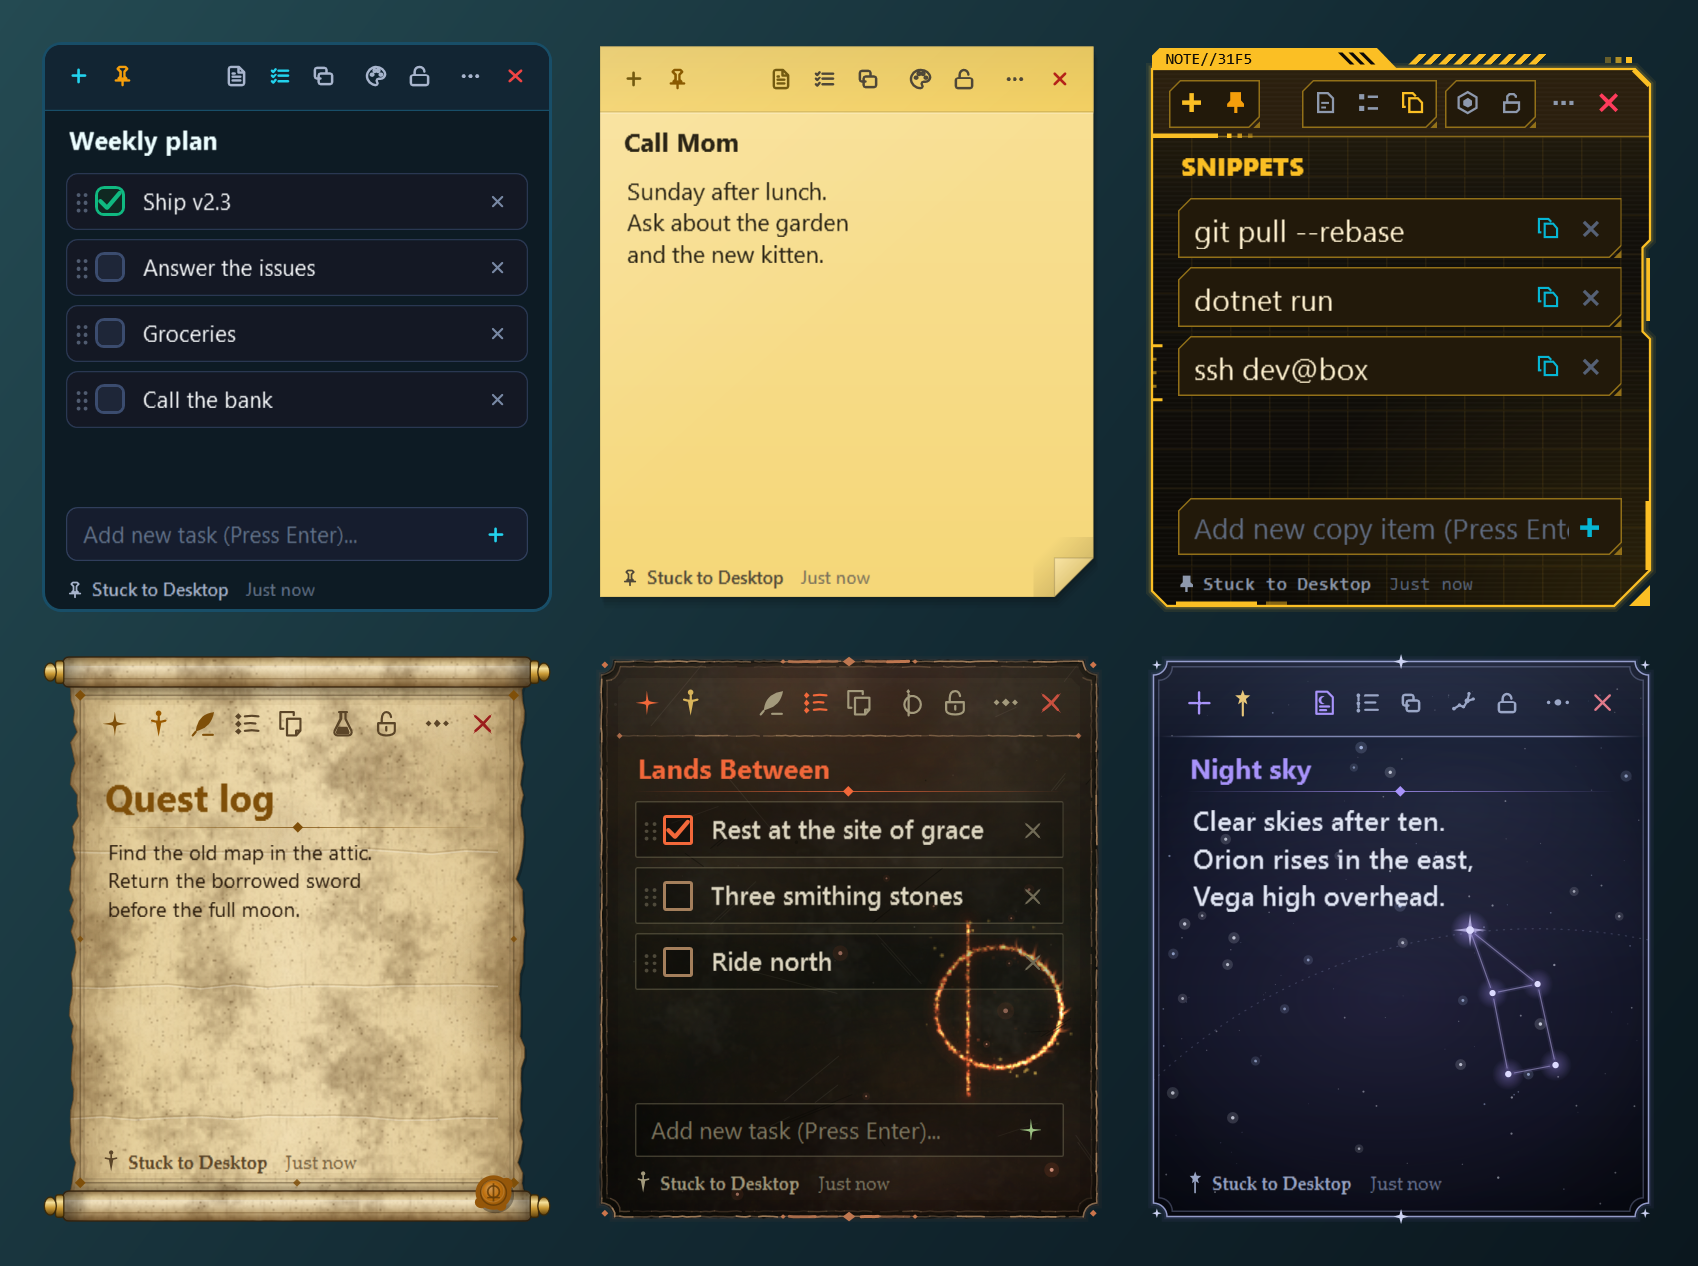
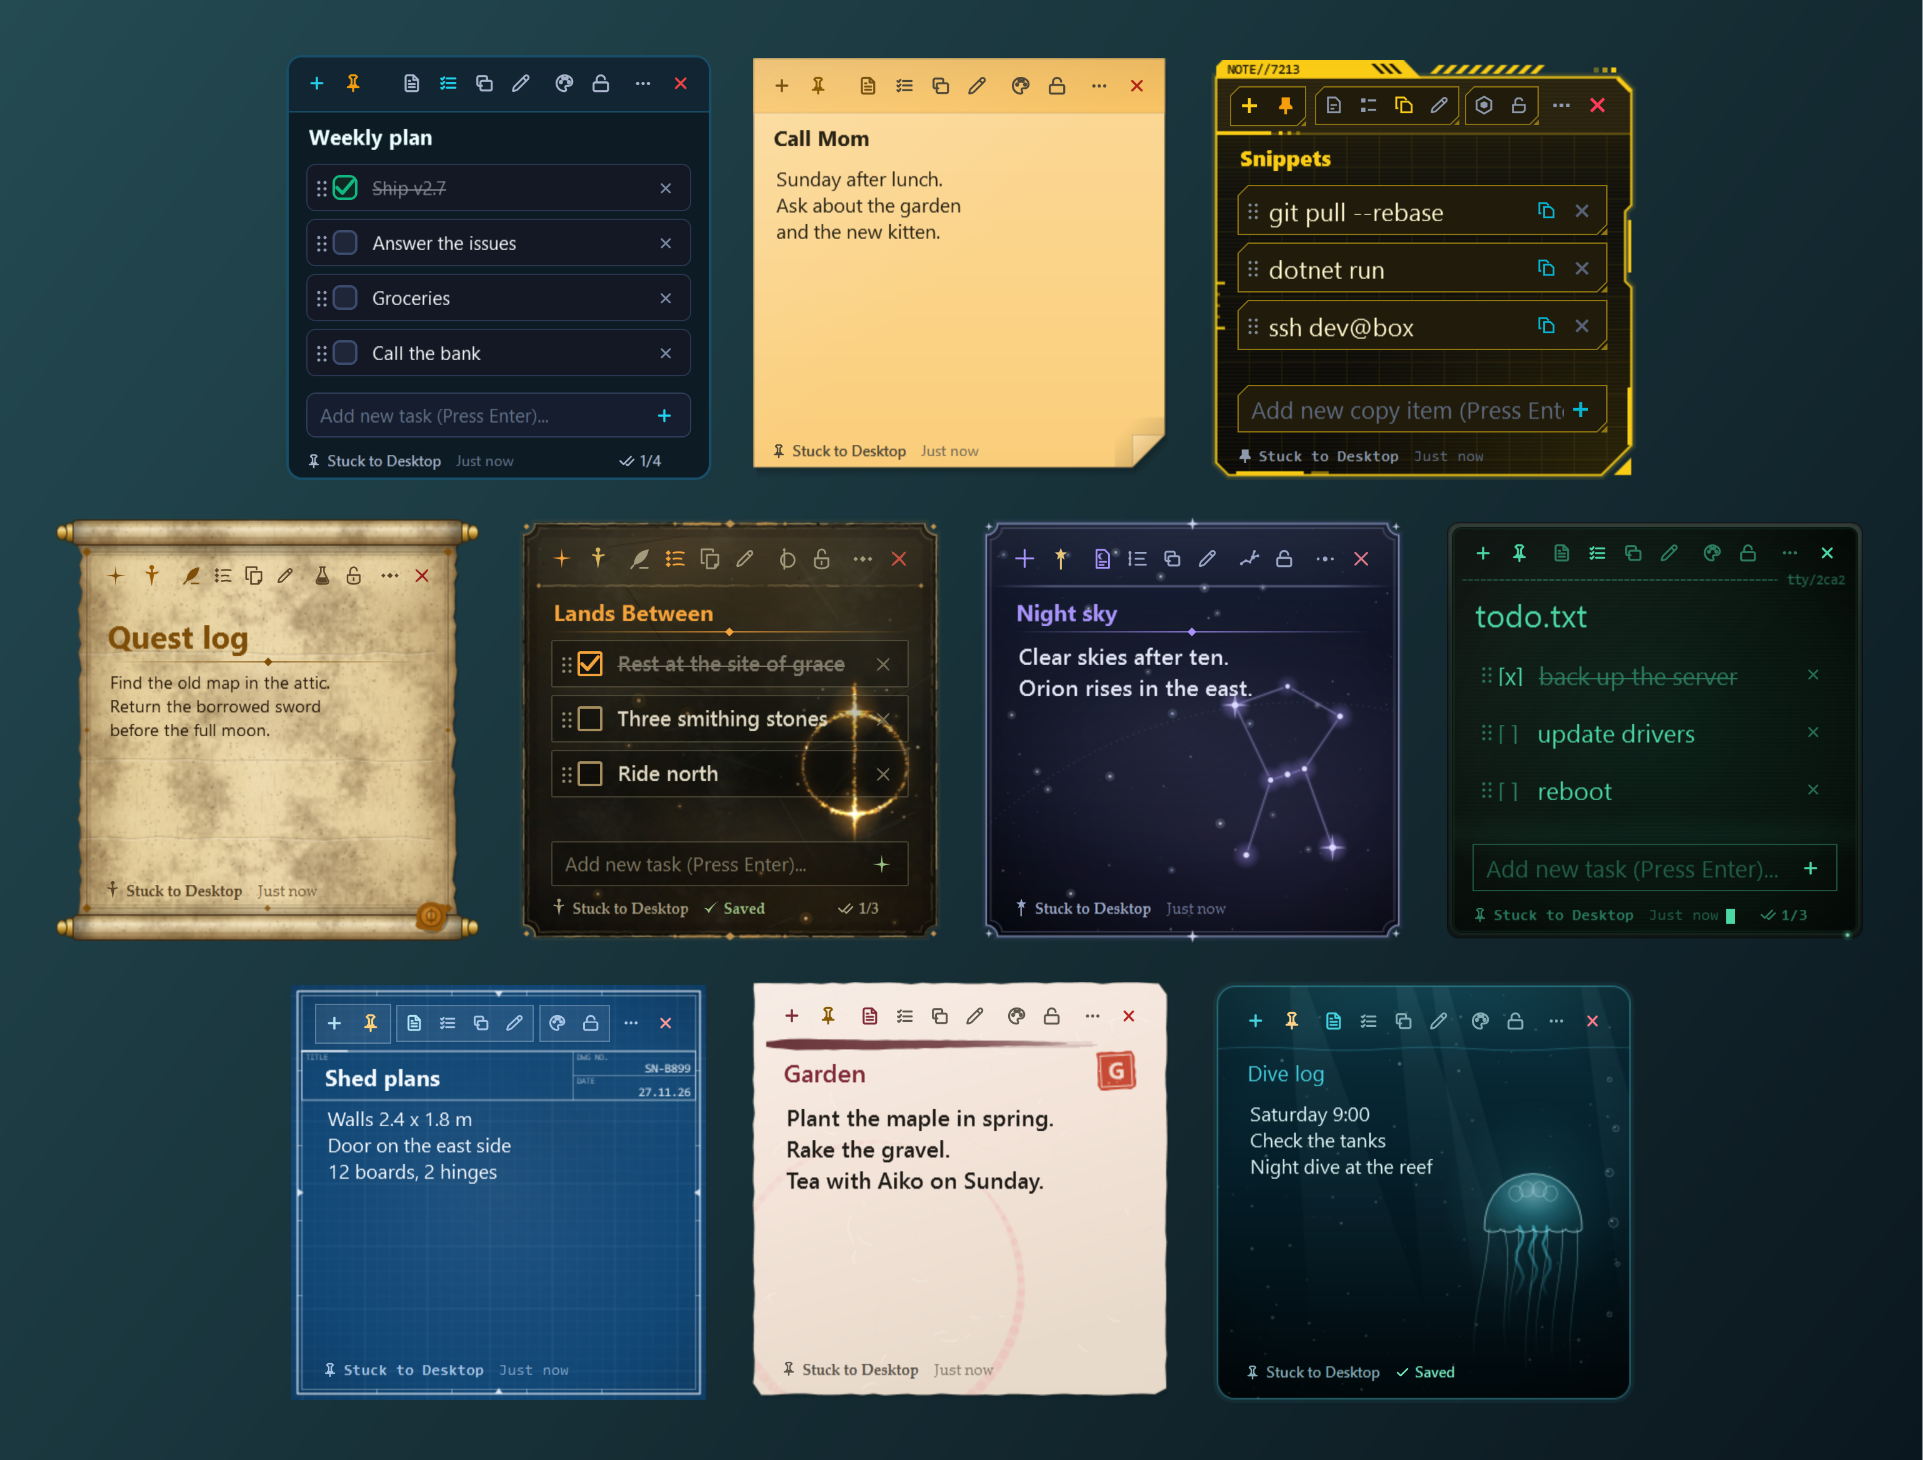
docs: README with all ten themes (new theme picture, sea creatures); renderer: readme set for the README pictures

diff --git a/tests/SmartNotes.Tests/NoteRenderer.cs b/tests/SmartNotes.Tests/NoteRenderer.cs
@@ -43,6 +43,7 @@ public static class NoteRenderer
         if (set == "settings") return RenderSettingsPreviews(outDir, storage, settings);
         if (set == "settingspages") return RenderSettingsPages(outDir, storage, settings);
         if (set == "dialogs") return RenderDialogs(outDir);
+        if (set == "readme") return RenderReadme(outDir, storage, settings);
 
         var shots = set switch
         {
@@ -192,6 +193,119 @@ public static class NoteRenderer
         Save(Sheet(tiles), Path.Combine(outDir, "sheet-settingspages.png"));
         Console.WriteLine($"Rendered {tiles.Count} picture(s) to {outDir}");
         return 0;
+    }
+
+    /// <summary>
+    /// The README pictures: every theme with its own content (themes.png, the teal backdrop of the first README
+    /// picture, rows of 3 - 4 - 3) and the Deep Sea creatures as a strip like constellations.png (sea-creatures.png).
+    /// Copy both into docs/images.
+    /// </summary>
+    private static int RenderReadme(string outDir, NoteStorageService storage, SettingsService settings)
+    {
+        var shots = new List<BitmapSource>();
+        foreach (var note in ReadmeNotes())
+        {
+            storage.AddNote(note);
+            var win = new StickyNoteWindow(note, storage, settings, _ => { }, _ => { }) { ShowActivated = false };
+            win.Show();
+            win.MoveToScreenPosition(-30000, -30000);
+            Pump(400);
+            try { shots.Add(Render((FrameworkElement)win.Content)); }
+            finally { win.Close(); }
+        }
+
+        int[] rows = { 3, 4, 3 };
+        const double gap = 30, pad = 44;
+        double cellW = shots.Max(s => s.Width), cellH = shots.Max(s => s.Height);
+        double width = pad * 2 + 4 * cellW + 3 * gap, height = pad * 2 + rows.Length * cellH + (rows.Length - 1) * gap;
+        var visual = new DrawingVisual();
+        RenderOptions.SetBitmapScalingMode(visual, BitmapScalingMode.HighQuality);
+        using (var dc = visual.RenderOpen())
+        {
+            dc.DrawRectangle(new LinearGradientBrush(Color.FromRgb(0x24, 0x4A, 0x52), Color.FromRgb(0x0B, 0x17, 0x1E), new Point(0, 0), new Point(1, 1)),
+                null, new Rect(0, 0, width, height));
+            int i = 0;
+            for (int r = 0; r < rows.Length; r++)
+            {
+                double x0 = (width - (rows[r] * cellW + (rows[r] - 1) * gap)) / 2, y = pad + r * (cellH + gap);
+                for (int c = 0; c < rows[r]; c++, i++)
+                {
+                    var s = shots[i];
+                    dc.DrawImage(s, new Rect(x0 + c * (cellW + gap) + (cellW - s.Width) / 2, y + (cellH - s.Height) / 2, s.Width, s.Height));
+                }
+            }
+        }
+        Save(ToBitmap(visual, width, height, 1.25), Path.Combine(outDir, "themes.png"));
+
+        // the creatures: the theme's art alone, the name below in the creature's light
+        var sea = NoteSkin.Get(NoteSkin.DeepSeaKey);
+        string[] colors = { "Cyan", "Violet", "Amber" };
+        const double tile = 240, labelH = 44, cpad = 28;
+        double sw = cpad + DeepSeaArt.CreatureKeys.Count * (tile + cpad), sh = cpad + tile + labelH;
+        var strip = new DrawingVisual();
+        using (var dc = strip.RenderOpen())
+        {
+            dc.DrawRectangle(new SolidColorBrush(Color.FromRgb(0x0A, 0x13, 0x18)), null, new Rect(0, 0, sw, sh));
+            for (int i = 0; i < DeepSeaArt.CreatureKeys.Count; i++)
+            {
+                string key = DeepSeaArt.CreatureKeys[i];
+                var note = new NoteItem { SkinKey = NoteSkin.DeepSeaKey, ColorKey = colors[i] };
+                note.SetEmblem(NoteSkin.DeepSeaKey, key);
+                var theme = sea.Tint(NoteColorTheme.Get(colors[i]));
+                double x = cpad + i * (tile + cpad);
+                if (SkinArt.Build(sea, tile, tile, theme, "SEA" + i, 1.25, 0, note, "") is { } art)
+                {
+                    dc.PushTransform(new TranslateTransform(x, cpad));
+                    dc.DrawDrawing(art);
+                    dc.Pop();
+                }
+                var color = (Color)System.Windows.Media.ColorConverter.ConvertFromString(theme.AccentHex);
+                var label = new FormattedText(key, CultureInfo.InvariantCulture, FlowDirection.LeftToRight,
+                    new Typeface(new System.Windows.Media.FontFamily("Segoe UI"),FontStyles.Normal, FontWeights.SemiBold, FontStretches.Normal), 15, new SolidColorBrush(color), 1.25);
+                dc.DrawText(label, new Point(x + (tile - label.Width) / 2, cpad + tile + 14));
+            }
+        }
+        Save(ToBitmap(strip, sw, sh, 1.25), Path.Combine(outDir, "sea-creatures.png"));
+        Console.WriteLine($"Rendered themes.png and sea-creatures.png to {outDir}");
+        return 0;
+    }
+
+    private static BitmapSource ToBitmap(DrawingVisual visual, double width, double height, double scale)
+    {
+        var bmp = new RenderTargetBitmap((int)Math.Ceiling(width * scale), (int)Math.Ceiling(height * scale), 96 * scale, 96 * scale, PixelFormats.Pbgra32);
+        bmp.Render(visual);
+        bmp.Freeze();
+        return bmp;
+    }
+
+    /// <summary>One note per theme, each with something of its own (like the first README picture).</summary>
+    private static List<NoteItem> ReadmeNotes()
+    {
+        NoteItem N(string skin, string color, string title, string text = "", NoteViewMode mode = NoteViewMode.Text)
+        {
+            var n = Sample(skin, color, title, text, mode);
+            n.Height = 340; // 340 wide, like the first README picture
+            n.ModifiedAt = DateTime.Now; // "Just now"
+            return n;
+        }
+
+        var classic = N("Classic", "Cyan", "Weekly plan", mode: NoteViewMode.Checklist);
+        classic.Checklist = Tasks(("Ship v2.7", true), ("Answer the issues", false), ("Groceries", false), ("Call the bank", false));
+        var paper = N("Paper", "Amber", "Call Mom", "Sunday after lunch.\nAsk about the garden\nand the new kitten.");
+        var cyber = N("Cyberpunk", "Gold", "Snippets", mode: NoteViewMode.CopyCompartments);
+        cyber.CopyList = new() { new() { Text = "git pull --rebase" }, new() { Text = "dotnet run" }, new() { Text = "ssh dev@box" } };
+        var medieval = N("Medieval", "Amber", "Quest log", "Find the old map in the attic.\nReturn the borrowed sword\nbefore the full moon.");
+        var elden = N("EldenRing", "Amber", "Lands Between", mode: NoteViewMode.Checklist);
+        elden.Checklist = Tasks(("Rest at the site of grace", true), ("Three smithing stones", false), ("Ride north", false));
+        var astral = N("Astral", "Violet", "Night sky", "Clear skies after ten.\nOrion rises in the east.");
+        astral.SetEmblem(NoteSkin.AstralKey, "Orion");
+        var terminal = N("Terminal", "Emerald", "todo.txt", mode: NoteViewMode.Checklist);
+        terminal.Checklist = Tasks(("back up the server", true), ("update drivers", false), ("reboot", false));
+        var blueprint = N("Blueprint", "Cyan", "Shed plans", "Walls 2.4 x 1.8 m\nDoor on the east side\n12 boards, 2 hinges");
+        var washi = N("InkWashi", "Rose", "Garden", "Plant the maple in spring.\nRake the gravel.\nTea with Aiko on Sunday.");
+        var deep = N("DeepSea", "Cyan", "Dive log", "Saturday 9:00\nCheck the tanks\nNight dive at the reef");
+        deep.SetEmblem(NoteSkin.DeepSeaKey, "Jellyfish");
+        return new() { classic, paper, cyber, medieval, elden, astral, terminal, blueprint, washi, deep };
     }
 
     // ---------------------------------------------------------------- what to draw

diff --git a/DEVLOG.md b/DEVLOG.md
@@ -241,7 +241,7 @@ Skins change the whole look of a note (silhouette, surface, fonts, icon colours)
 ### Still open
 - **Test status for v2.7.0** (2026-11-27): 77/77 unit tests. Full end-to-end run 109/110; the one failure (`NewNoteHotkey_WhileNotesAreHidden`, a real Win+Alt+N press) passed alone and in two back-to-back runs of all hotkey tests: the usual timing / focus interference while the PC is in use (keys typed during a run land in test notes). Run the end-to-end tests when nobody is typing.
 - The four new themes were built without a pick board; fonts, creatures, paper blue and seal style are easy to change. Next: the Deep Sea creatures reworked and more animations, each starting from a pick board.
-- **README**: `docs/images/themes.png` still shows the first six themes. It was a hand-arranged picture (different content per note, no labels, teal backdrop); `--render <folder> skins` is only a contact sheet. A ten-theme picture needs a layout choice (pick board).
+- **README pictures** (done for 2.7.0): `--render <folder> readme` draws `themes.png` (all ten themes with their own content, rows of 3 - 4 - 3 on the teal backdrop of the first picture) and `sea-creatures.png` (like `constellations.png`); copy both into `docs/images`. `themed-menus.png` still shows the first six themes' menus.
 - **Version**: 2.7.0 in the csproj. Pushing the `v2.7.0` tag publishes the release and every installed copy updates itself.
 - **Click through before a release** (what the end-to-end tests don't cover): tray menu opens at the cursor and closes on an outside click or Escape; three-dot and right-click menus in every skin; changing fonts in Settings and saving; switching skins on an open note; resizing shaped skins; Win+D with Desktop Stuck notes.
 - Variable fonts are not usable in WPF: only static TTFs work as skin fonts.

diff --git a/README.md b/README.md
@@ -11,7 +11,7 @@ Notes, to-do lists and checklists right on your desktop. No account, no cloud, e
 
 <br>
 
-<img src="docs/images/themes.png" width="760" alt="SmartNotes in its six themes">
+<img src="docs/images/themes.png" width="800" alt="SmartNotes in its ten themes: Classic, Paper Sticky, Cyberpunk, Medieval, Elden Ring, Astral, Terminal, Blueprint, Ink & Washi and Deep Sea">
 
 </div>
 
@@ -38,7 +38,7 @@ Notes, to-do lists and checklists right on your desktop. No account, no cloud, e
 - **Your notes on several PCs**: pick a folder you already sync (OneDrive, Dropbox, a NAS) under Settings > Sync Folder. Each PC keeps its notes and writes its own file there; edits, new notes and deletions come over within seconds. No account.
 - **Quiet updates** in the background, **English and German**, and it **starts with Windows** (turn that off in the tray menu or Task Manager).
 
-## Runes and constellations
+## Runes, constellations and sea creatures
 
 In the Elden Ring theme the colour picker offers nine Great Runes instead of colours:
 
@@ -47,6 +47,10 @@ In the Elden Ring theme the colour picker offers nine Great Runes instead of col
 In the Astral theme every note gets its own constellation, picked automatically or chosen by you:
 
 ![The five constellations](docs/images/constellations.png)
+
+In the Deep Sea theme every note gets a glowing creature that lights up in your note colour:
+
+![The three sea creatures](docs/images/sea-creatures.png)
 
 <details>
 <summary>Themed menus</summary>
